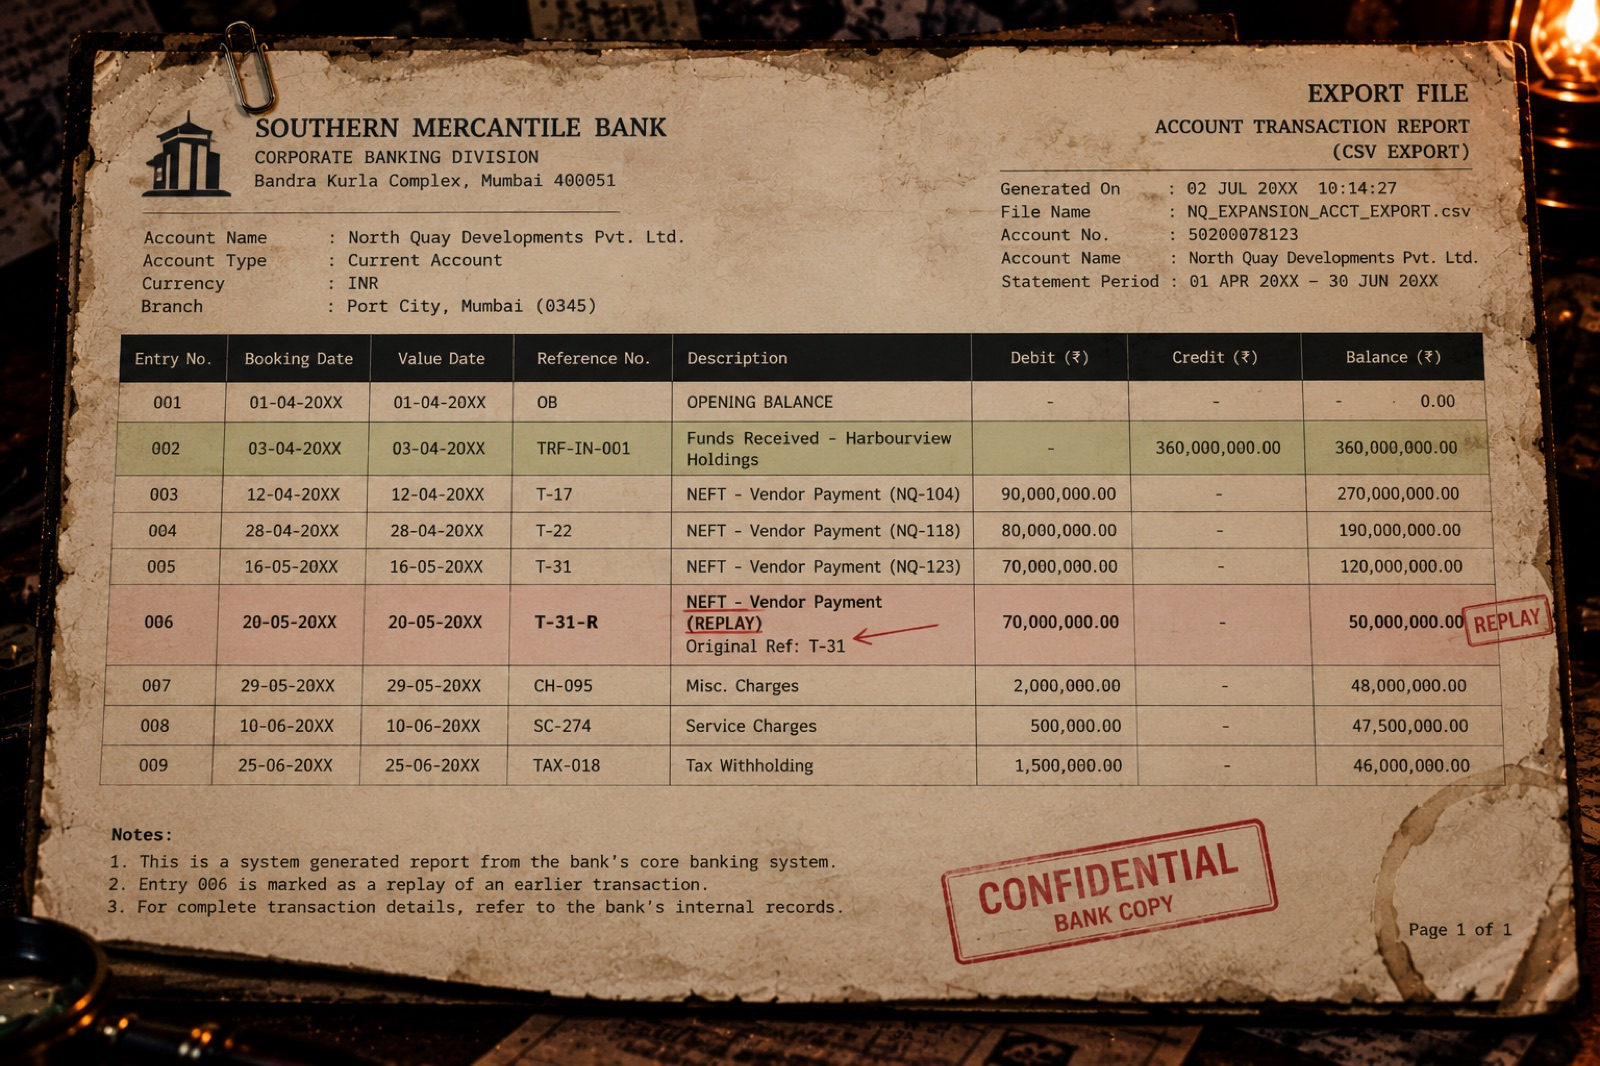
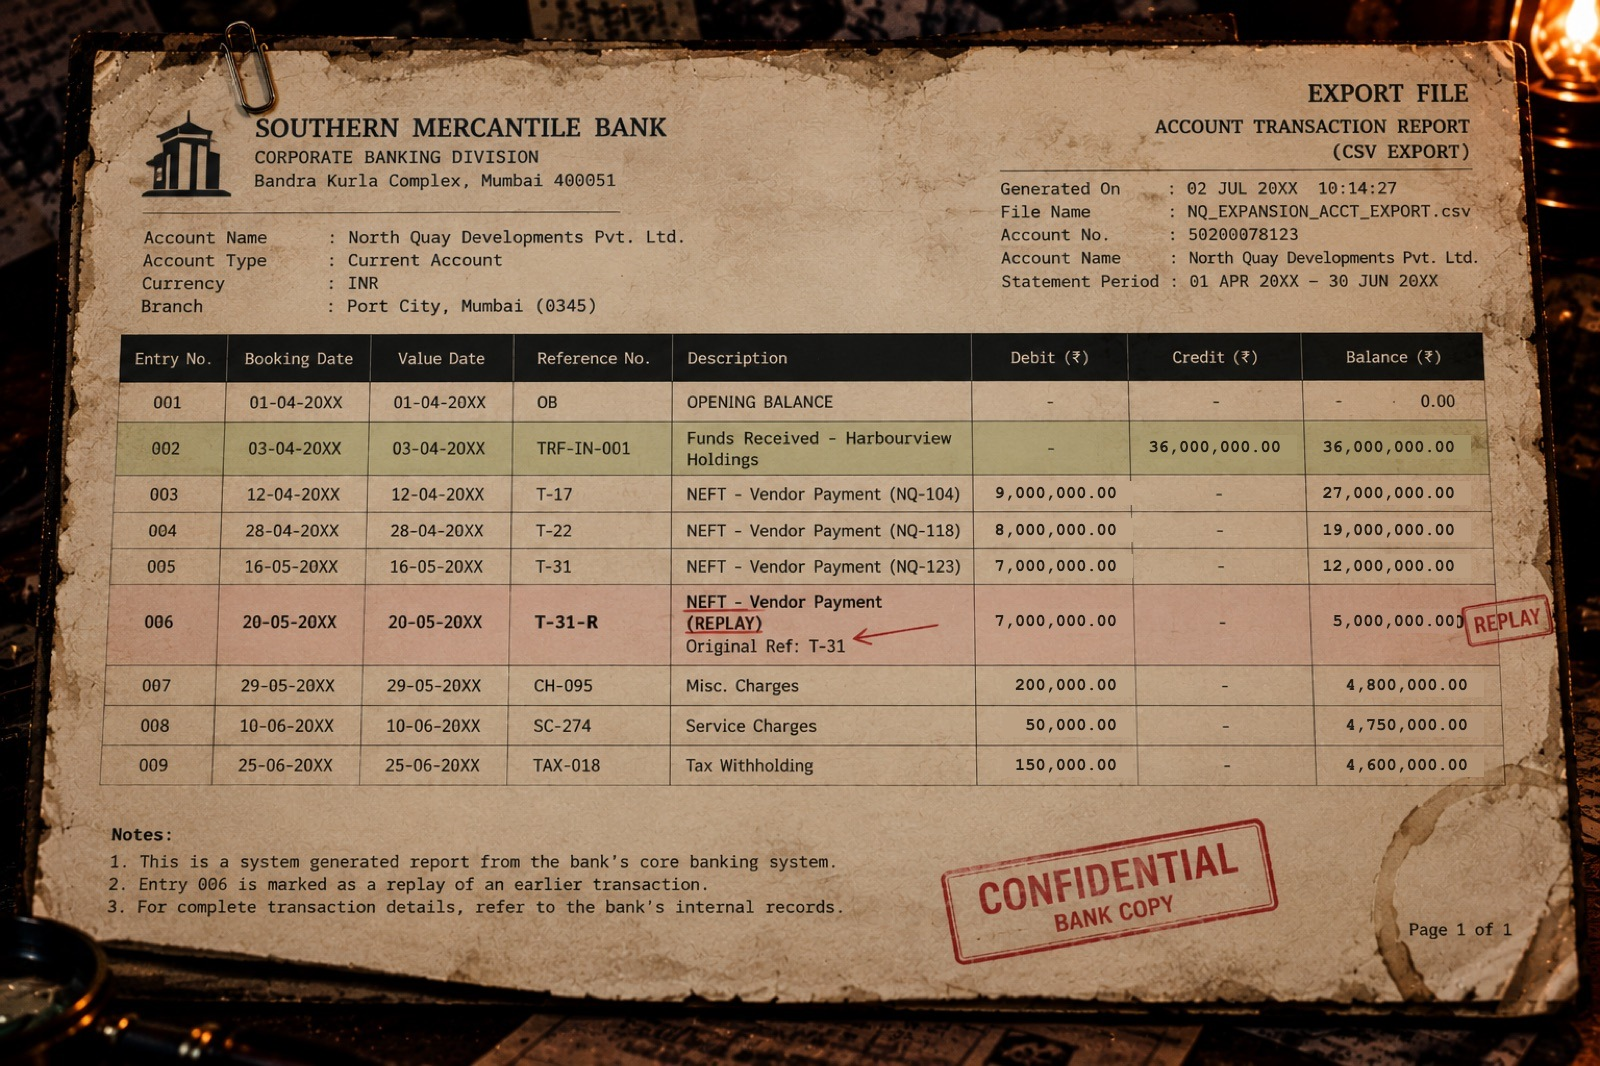
Bank export amounts in crore match the memo (₹3.60 crore in, ₹0.90/0.80/0.70 crore out)

diff --git a/script.js b/script.js
@@ -3237,7 +3237,7 @@ function f3sFindLines(img,boxes){
   function p1Viewer(host,start,onOpen){
     host.innerHTML=`<div class="p1v-tabs">${P1_DOCS.map(([a,b],i)=>`<button type="button" class="p1v-tab" data-i="${i}"><small>${a}</small>${b}</button>`).join('')}</div><div class="p1v-frame"><img alt=""></div>`;
     const img=host.querySelector('img'),tabs=[...host.querySelectorAll('.p1v-tab')];
-    const show=i=>{img.src=`assets/file-003/docs/p1-doc-${i+1}.jpg`;img.alt=P1_DOCS[i][1];tabs.forEach((t,n)=>{t.classList.toggle('on',n===i);if(n===i)t.classList.add('seen');});if(onOpen)onOpen(i);};
+    const show=i=>{img.src=`assets/file-003/docs/p1-doc-${i+1}.jpg?v=2`;img.alt=P1_DOCS[i][1];tabs.forEach((t,n)=>{t.classList.toggle('on',n===i);if(n===i)t.classList.add('seen');});if(onOpen)onOpen(i);};
     tabs.forEach((t,i)=>t.addEventListener('click',()=>{sfx('click');show(i);}));
     show(start);
   }

diff --git a/index.html b/index.html
@@ -693,6 +693,6 @@
       </div>
     </section>
   </main>
-  <script src="script.js?v=qc1"></script>
+  <script src="script.js?v=bank1"></script>
 </body>
 </html>
